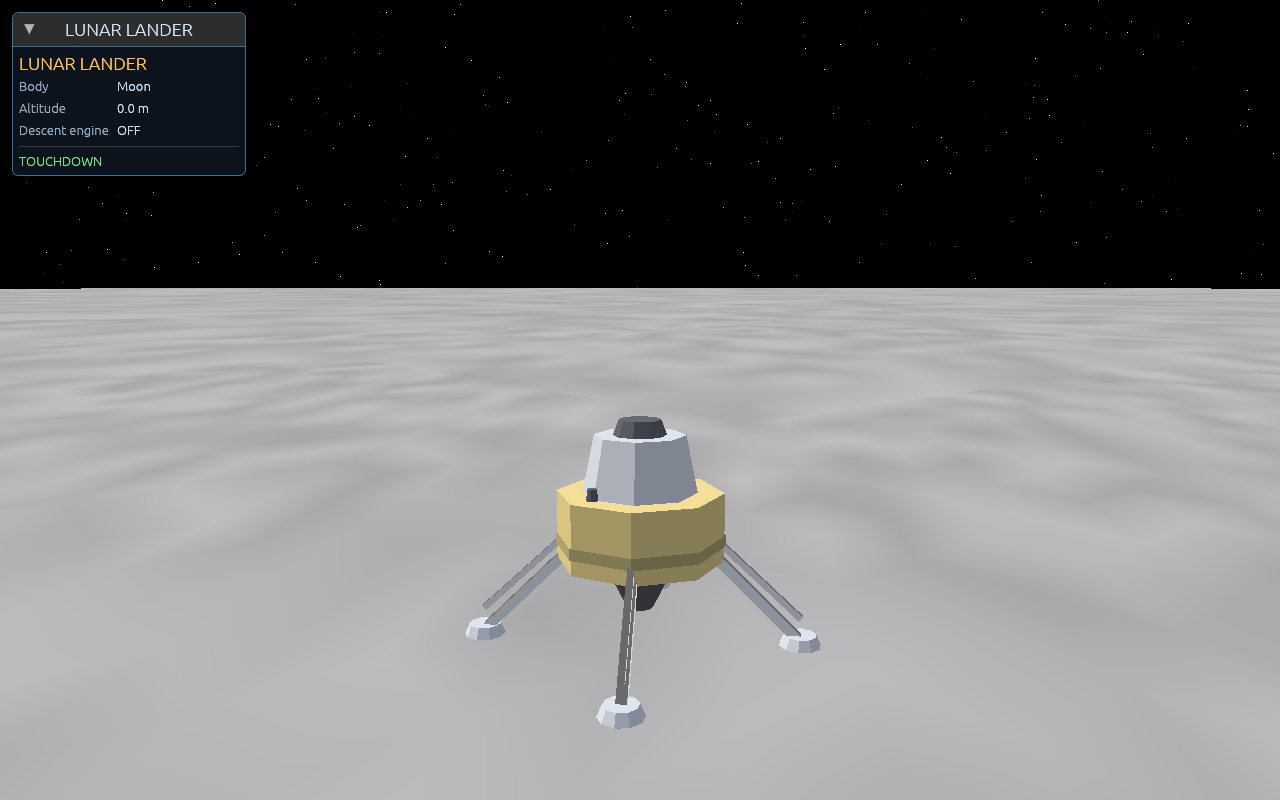
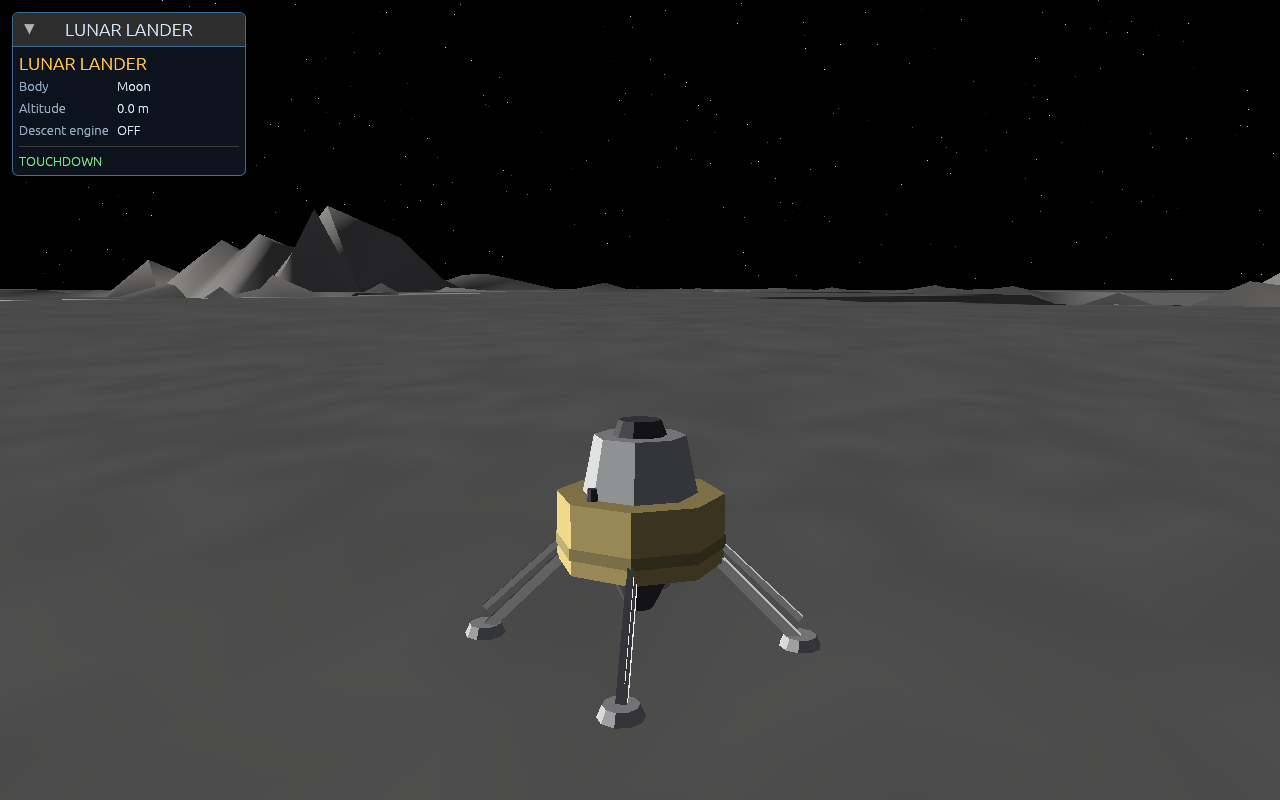
Give the moon real cratering and an airless, low-sun look
The lunar surface was just the home world's earth-like elevation field
recoloured grey, so it had rolling hills but no craters, and the mesh
shader washed it out with a bluish sky-ambient and horizon haze that
don't belong on an airless body.

- New cratered lunar elevation: multi-scale impact basins built from
  Worley cells (F1 distance gives the bowl, a matching value field picks
  which cells are craters and varies their size/depth), over gentle mare
  undulation. A small flattened, vertically-aligned touchdown site keeps
  a landed craft sitting on the surface. planet_terrain uses this field
  when lunar.
- Airless lighting: the mesh shader now takes an airless flag (sun.w);
  on the moon it drops the sky ambient to near-black and the scenarios
  zero the aerial-haze fog, so crater shadows read hard and dark.
- A low, grazing lunar sun (SUN_LOCAL_MOON), shared by the mesh and sky
  shaders, throws long shadows off the crater rims.
- Darker, lower-albedo regolith colouring so the relief stands out.
- New m5_approach scenario: a higher, look-down view over the cratered
  field on final approach. Refreshed docs images.

Claude-Session: https://claude.ai/code/session_017LTf57mmCQ1SszrwxKKsmP

diff --git a/crates/terrain/src/elevation.rs b/crates/terrain/src/elevation.rs
@@ -7,7 +7,8 @@
 //! it is seamless across LOD transitions and gains detail as you zoom in.
 
 use glam::DVec3;
-use noise::{Fbm, MultiFractal, NoiseFn, Perlin};
+use noise::core::worley::{distance_functions, ReturnType};
+use noise::{Fbm, MultiFractal, NoiseFn, Perlin, Worley};
 
 /// A region flattened toward a target height (launch pad, city sites). `inner`
 /// and `outer` are angular radii (radians); fully flat within inner, blending
@@ -33,6 +34,18 @@ pub struct Elevation {
     /// Vertical scale: raw noise unit -> metres.
     relief_m: f64,
     flat_zones: Vec<FlatZone>,
+    /// Lunar mode: replace the earth-like macro field with a cratered regolith
+    /// field (no oceans, no mountains; impact basins instead).
+    lunar: bool,
+    /// Per-scale crater fields: F1 distance to the nearest crater centre and a
+    /// per-crater random value (same seed+frequency, so they share cells).
+    crater_dist: Vec<Worley>,
+    crater_val: Vec<Worley>,
+    /// Crater layer parameters: (radius in cell units, depth in metres).
+    crater_cfg: Vec<(f64, f64)>,
+    /// A constant height offset (metres) applied last (used to align the lunar
+    /// landing site with the rocket-view origin).
+    offset_m: f64,
 }
 
 fn smoothstep(e0: f64, e1: f64, x: f64) -> f64 {
@@ -83,6 +96,35 @@ impl Elevation {
             .set_persistence(0.5)
             .set_lacunarity(2.2);
 
+        // Crater fields, large -> small. Each scale gets a distance Worley (bowl
+        // shape) and a value Worley with the SAME seed + frequency so the random
+        // value identifies the same crater the distance is measured from.
+        let mk_dist = |s: u32, f: f64| {
+            Worley::new(s)
+                .set_return_type(ReturnType::Distance)
+                .set_distance_function(distance_functions::euclidean)
+                .set_frequency(f)
+        };
+        let mk_val = |s: u32, f: f64| {
+            Worley::new(s)
+                .set_return_type(ReturnType::Value)
+                .set_distance_function(distance_functions::euclidean)
+                .set_frequency(f)
+        };
+        let freqs = [900.0_f64, 3000.0, 9000.0];
+        let crater_dist = freqs
+            .iter()
+            .enumerate()
+            .map(|(i, &f)| mk_dist(seed.wrapping_add(4000 + i as u32), f))
+            .collect();
+        let crater_val = freqs
+            .iter()
+            .enumerate()
+            .map(|(i, &f)| mk_val(seed.wrapping_add(4000 + i as u32), f))
+            .collect();
+        // (radius in cell units, depth in metres) per scale.
+        let crater_cfg = vec![(0.55, 1200.0), (0.5, 430.0), (0.5, 110.0)];
+
         Elevation {
             continents,
             detail,
@@ -96,7 +138,60 @@ impl Elevation {
             sea: 0.070,
             relief_m: 9000.0,
             flat_zones: Vec::new(),
+            lunar: false,
+            crater_dist,
+            crater_val,
+            crater_cfg,
+            offset_m: 0.0,
         }
+    }
+
+    /// A cratered, airless regolith field (the moon): no oceans or mountains,
+    /// just impact basins of several scales over gentle mare undulation.
+    pub fn lunar(seed: u32) -> Self {
+        let mut e = Elevation::new(seed);
+        e.lunar = true;
+        e
+    }
+
+    /// Shift the whole field vertically (metres). Used to seat the lunar landing
+    /// site at the rocket-view origin height.
+    pub fn set_offset(&mut self, off: f64) {
+        self.offset_m = off;
+    }
+
+    /// One crater layer's contribution at `dir` (metres, signed).
+    fn crater_layer(&self, dir: DVec3, i: usize) -> f64 {
+        let p = [dir.x, dir.y, dir.z];
+        let rv = self.crater_val[i].get(p); // 0..1 per crater
+        if rv < 0.18 {
+            return 0.0; // smooth mare patch: no crater in this cell
+        }
+        let d = self.crater_dist[i].get(p); // F1 distance, cell units
+        let (cr, depth) = self.crater_cfg[i];
+        let size = cr * (0.45 + 1.1 * rv); // vary crater radius
+        let dep = depth * (0.5 + 0.9 * rv); // and depth
+        let rn = d / size;
+        // depressed bowl: flattish floor, steepening to the rim at rn = 1
+        let floor = if rn < 1.0 { -dep * (1.0 - rn * rn * rn) } else { 0.0 };
+        // a modest raised rim/lip + ejecta blanket (real craters: rim height is
+        // small next to the bowl depth, so the feature reads as a pit)
+        let rim = 0.26 * dep * (-(((rn - 1.0) / 0.22).powi(2))).exp();
+        floor + rim
+    }
+
+    /// Cratered lunar elevation (metres, signed) before flatten zones / offset.
+    fn crater_height(&self, dir: DVec3) -> f64 {
+        let d = dir.normalize();
+        let mut h = 0.0;
+        for i in 0..self.crater_cfg.len() {
+            h += self.crater_layer(d, i);
+        }
+        // broad mare undulation + fine regolith roughness (kept low so the
+        // craters stay the dominant relief)
+        h += self.hills.get([d.x * 3.0, d.y * 3.0, d.z * 3.0]) * 90.0;
+        h += self.fine.get([d.x * 40.0, d.y * 40.0, d.z * 40.0]) * 14.0;
+        h
     }
 
     /// Flatten a circular region (e.g. the launch pad or a city) to its natural
@@ -134,6 +229,9 @@ impl Elevation {
     /// Natural elevation (metres, signed) before any flatten zones.
     fn base_height(&self, dir: DVec3) -> f64 {
         let d = dir.normalize();
+        if self.lunar {
+            return self.crater_height(d);
+        }
         let above = self.raw(d) - self.sea;
         let land = above.max(0.0);
         // ridged mountains, gated to land and much stronger inland
@@ -156,7 +254,7 @@ impl Elevation {
             let t = 1.0 - smoothstep(z.inner, z.outer, ang); // 1 inside, 0 outside
             h += (z.target - h) * t;
         }
-        h
+        h + self.offset_m
     }
 
     /// Clamped land height (>= 0) for displacing the visible surface.

diff --git a/crates/app/src/main.rs b/crates/app/src/main.rs
@@ -210,6 +210,11 @@ const LOG_DEPTH_FAR: f32 = 2.0e7;
 /// Horizon haze colour shared by the sky and the terrain aerial-perspective fog.
 const HORIZON: [f32; 3] = [0.74, 0.82, 0.93];
 
+/// Sun direction in the launch tangent frame (east, up, north). The home world
+/// uses a fairly high sun; the moon uses a low, grazing sun for long shadows.
+const SUN_LOCAL: Vec3 = Vec3::new(0.40, 0.72, 0.55);
+const SUN_LOCAL_MOON: Vec3 = Vec3::new(0.62, 0.17, 0.77);
+
 /// A perspective camera for the orbital map. The position is f64 (Mm) so the
 /// full-scale system stays precise; projection is camera-relative.
 struct SystemCamera {
@@ -651,13 +656,24 @@ impl World {
             }
         }
 
+        // On the airless moon there is no sky ambient or aerial haze: flag the
+        // shader (sun.w = 1) and kill the fog so the surface reads dark with
+        // hard, high-contrast crater shadows.
+        let lunar = if self.lunar { 1.0 } else { 0.0 };
+        let fog = if self.lunar {
+            [0.0, 0.0, 0.0, 0.0]
+        } else {
+            [HORIZON[0], HORIZON[1], HORIZON[2], 1.0 / 160_000.0]
+        };
+        // A low, grazing sun on the moon throws long shadows off the crater rims.
+        let sun_l = if self.lunar { SUN_LOCAL_MOON } else { SUN_LOCAL };
         MeshUniforms {
             viewproj: vp.to_cols_array_2d(),
-            sun: [0.40, 0.72, 0.55, 0.0],
+            sun: [sun_l.x, sun_l.y, sun_l.z, lunar],
             params: [fcoef, self.anim, nlights as f32, scale],
             // Light aerial haze only; the atmosphere shader does the real work so
             // the planet keeps its colour from altitude.
-            fog: [HORIZON[0], HORIZON[1], HORIZON[2], 1.0 / 160_000.0],
+            fog,
             lights,
             light_col,
         }
@@ -678,8 +694,12 @@ impl World {
             [w.x as f32, w.y as f32, w.z as f32, 0.0]
         };
         let cam_world = self.cam_world(self.camera_eye_local());
-        // Sun in world coords (the mesh shader's local (0.40,0.72,0.55)).
-        let sun = (self.launch_east * 0.40 + self.launch_up * 0.72 + self.launch_north * 0.55)
+        // Sun in world coords, matching the mesh shader's local sun direction
+        // (a low, grazing sun on the moon).
+        let sl = if self.lunar { SUN_LOCAL_MOON } else { SUN_LOCAL };
+        let sun = (self.launch_east * sl.x as f64
+            + self.launch_up * sl.y as f64
+            + self.launch_north * sl.z as f64)
             .normalize();
         let r_atm = self.body.radius + 90_000.0;
         SkyUniforms {
@@ -3071,6 +3091,22 @@ fn setup_world(scenario: &str, width: u32, height: u32) -> (World, f32) {
             world.sys_dist = 240.0;
             6.0
         }
+        "m5_approach" => {
+            // high on final approach: the lander hangs over a cratered regolith
+            // field, descent engine lit, craters running out to the horizon.
+            world.view = View::Rocket;
+            world.vab_mode = false;
+            world.rollout = 1.0;
+            world.lunar = true;
+            world.show_lander = true;
+            world.lander_alt = 700.0;
+            world.lander_firing = true;
+            world.rocket_az = 5.5;
+            world.rocket_el = 0.62; // look down over the cratered field
+            world.rocket_dist = 170.0;
+            world.rocket_focus_y = 700.0;
+            0.0
+        }
         "m5_descent" => {
             // powered descent over the lunar surface: grey regolith, black airless
             // sky, the lander firing its descent engine just above the ground.
@@ -3606,6 +3642,8 @@ fn main() {
                 "m3_orbit"
             } else if args.iter().any(|a| a == "m4_transfer") {
                 "m4_transfer"
+            } else if args.iter().any(|a| a == "m5_approach") {
+                "m5_approach"
             } else if args.iter().any(|a| a == "m5_descent") {
                 "m5_descent"
             } else if args.iter().any(|a| a == "m6_landed") {
@@ -3662,6 +3700,7 @@ fn main() {
                 "m2_liftoff" => "out/m2_liftoff.png",
                 "m3_orbit" => "out/m3_orbit.png",
                 "m4_transfer" => "out/m4_transfer.png",
+                "m5_approach" => "out/m5_approach.png",
                 "m5_descent" => "out/m5_descent.png",
                 "m6_landed" => "out/m6_landed.png",
                 "moons" => "out/moons.png",

diff --git a/crates/app/src/rocket.rs b/crates/app/src/rocket.rs
@@ -439,6 +439,22 @@ fn launch_elevation() -> Elevation {
     elev
 }
 
+/// The cratered lunar elevation, with a small flat landing site at the
+/// rocket-view origin so a touched-down lander rests on the surface (and is
+/// offset vertically to align that site with the home-frame origin height).
+fn lunar_elevation() -> Elevation {
+    let dir = spaceport_dir();
+    let mut elev = Elevation::lunar(47);
+    // signed crater height at the site (no flat zone / offset applied yet)
+    let site = elev.height_m(dir);
+    let h0 = launch_elevation().land_height_m(dir);
+    // flatten a small touchdown pad, then shift the field so the pad sits at the
+    // same height the rocket-view origin assumes.
+    elev.add_flat_zone(dir, 140.0, 480.0, PLANET_RADIUS);
+    elev.set_offset(h0 - site);
+    elev
+}
+
 /// The rocket-view local tangent frame at the spaceport: the surface origin
 /// (home-centred metres) plus the up / east / north basis. The launch physics
 /// and the terrain share this so the flying rocket lines up with the ground.
@@ -465,11 +481,13 @@ fn hashf(p: Vec3) -> f32 {
 
 fn terrain_color(signed_h: f64, slope: f32, jitter: f32, abs_lat: f64, lunar: bool) -> [f32; 3] {
     if lunar {
-        // grey regolith: lighter highlands, darker mare, brighter on slopes
+        // dark grey regolith (low albedo, so the relief from lighting reads
+        // strongly): darker mare in the basins, lighter highland rims, a touch
+        // brighter on steep slopes where fresh material is exposed.
         let h = (signed_h as f32 / 4000.0).clamp(-1.0, 1.0);
-        let base = mix3([0.34, 0.33, 0.32], [0.52, 0.51, 0.50], (h * 0.5 + 0.5).clamp(0.0, 1.0));
-        let bright = mix3(base, [0.62, 0.61, 0.60], (slope * 1.4).clamp(0.0, 1.0));
-        let b = 0.82 + 0.3 * jitter;
+        let base = mix3([0.18, 0.18, 0.19], [0.40, 0.40, 0.40], (h * 0.5 + 0.5).clamp(0.0, 1.0));
+        let bright = mix3(base, [0.50, 0.49, 0.48], (slope * 1.5).clamp(0.0, 1.0));
+        let b = 0.88 + 0.22 * jitter;
         return [bright[0] * b, bright[1] * b, bright[2] * b];
     }
     if signed_h <= 0.0 {
@@ -519,7 +537,7 @@ pub fn planet_terrain(
     lunar: bool,
 ) -> Mesh {
     let planet = Planet { radius: PLANET_RADIUS };
-    let elev = launch_elevation();
+    let elev = if lunar { lunar_elevation() } else { launch_elevation() };
     let to_local = |w: DVec3| -> DVec3 {
         let d = w - origin;
         DVec3::new(d.dot(east), d.dot(up), d.dot(north))